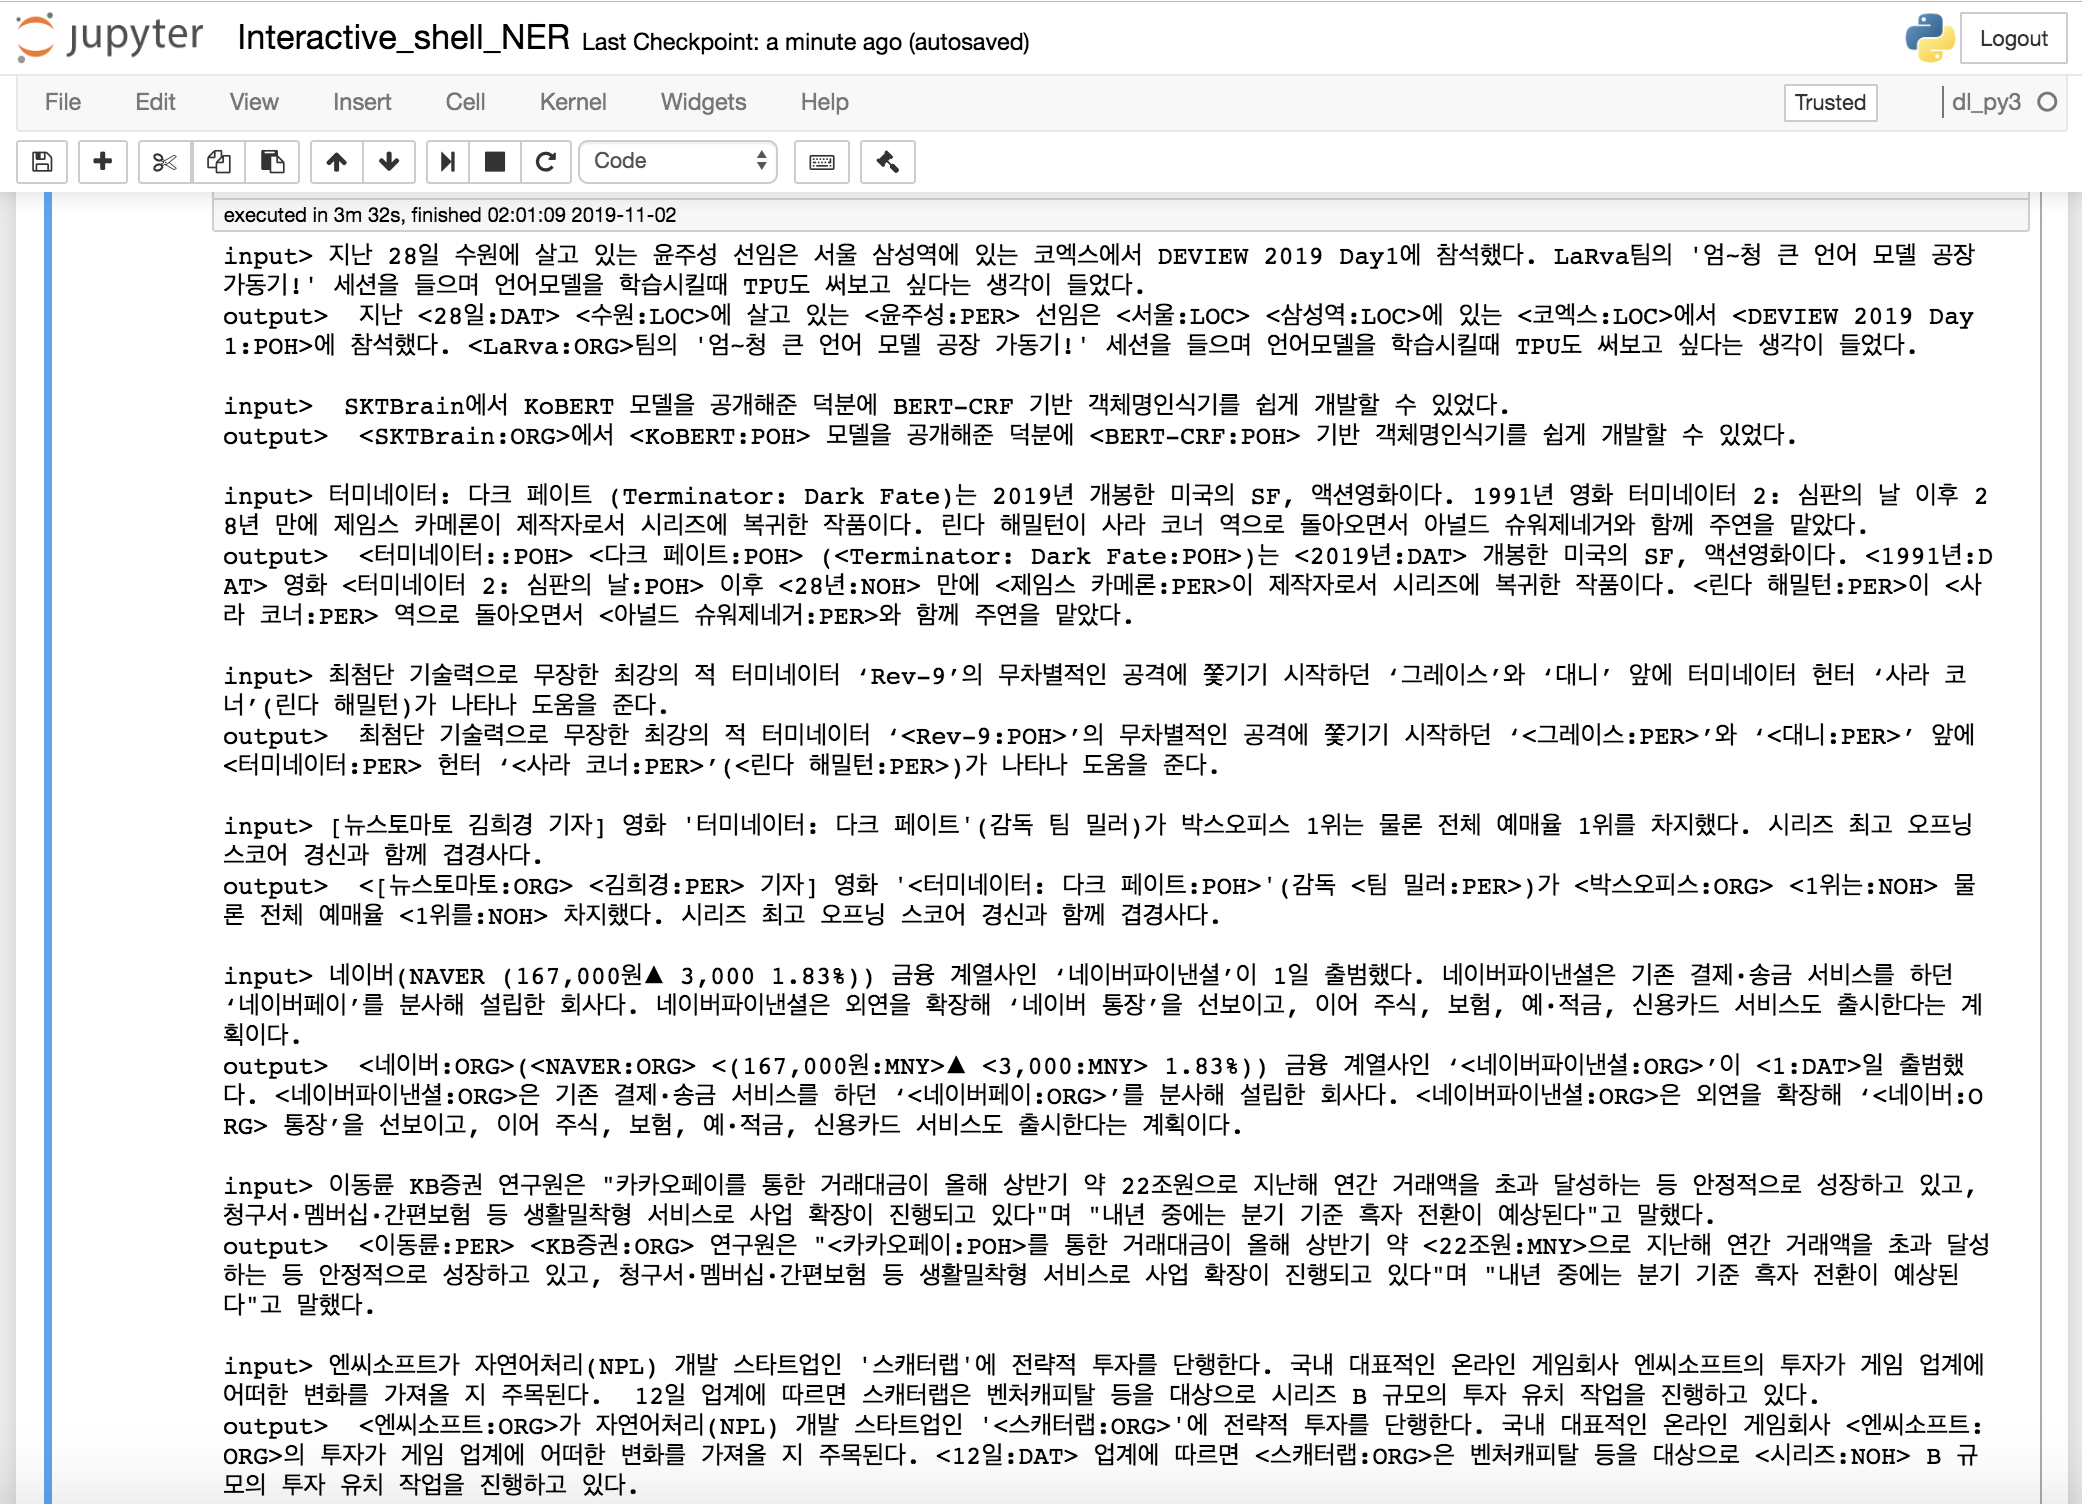
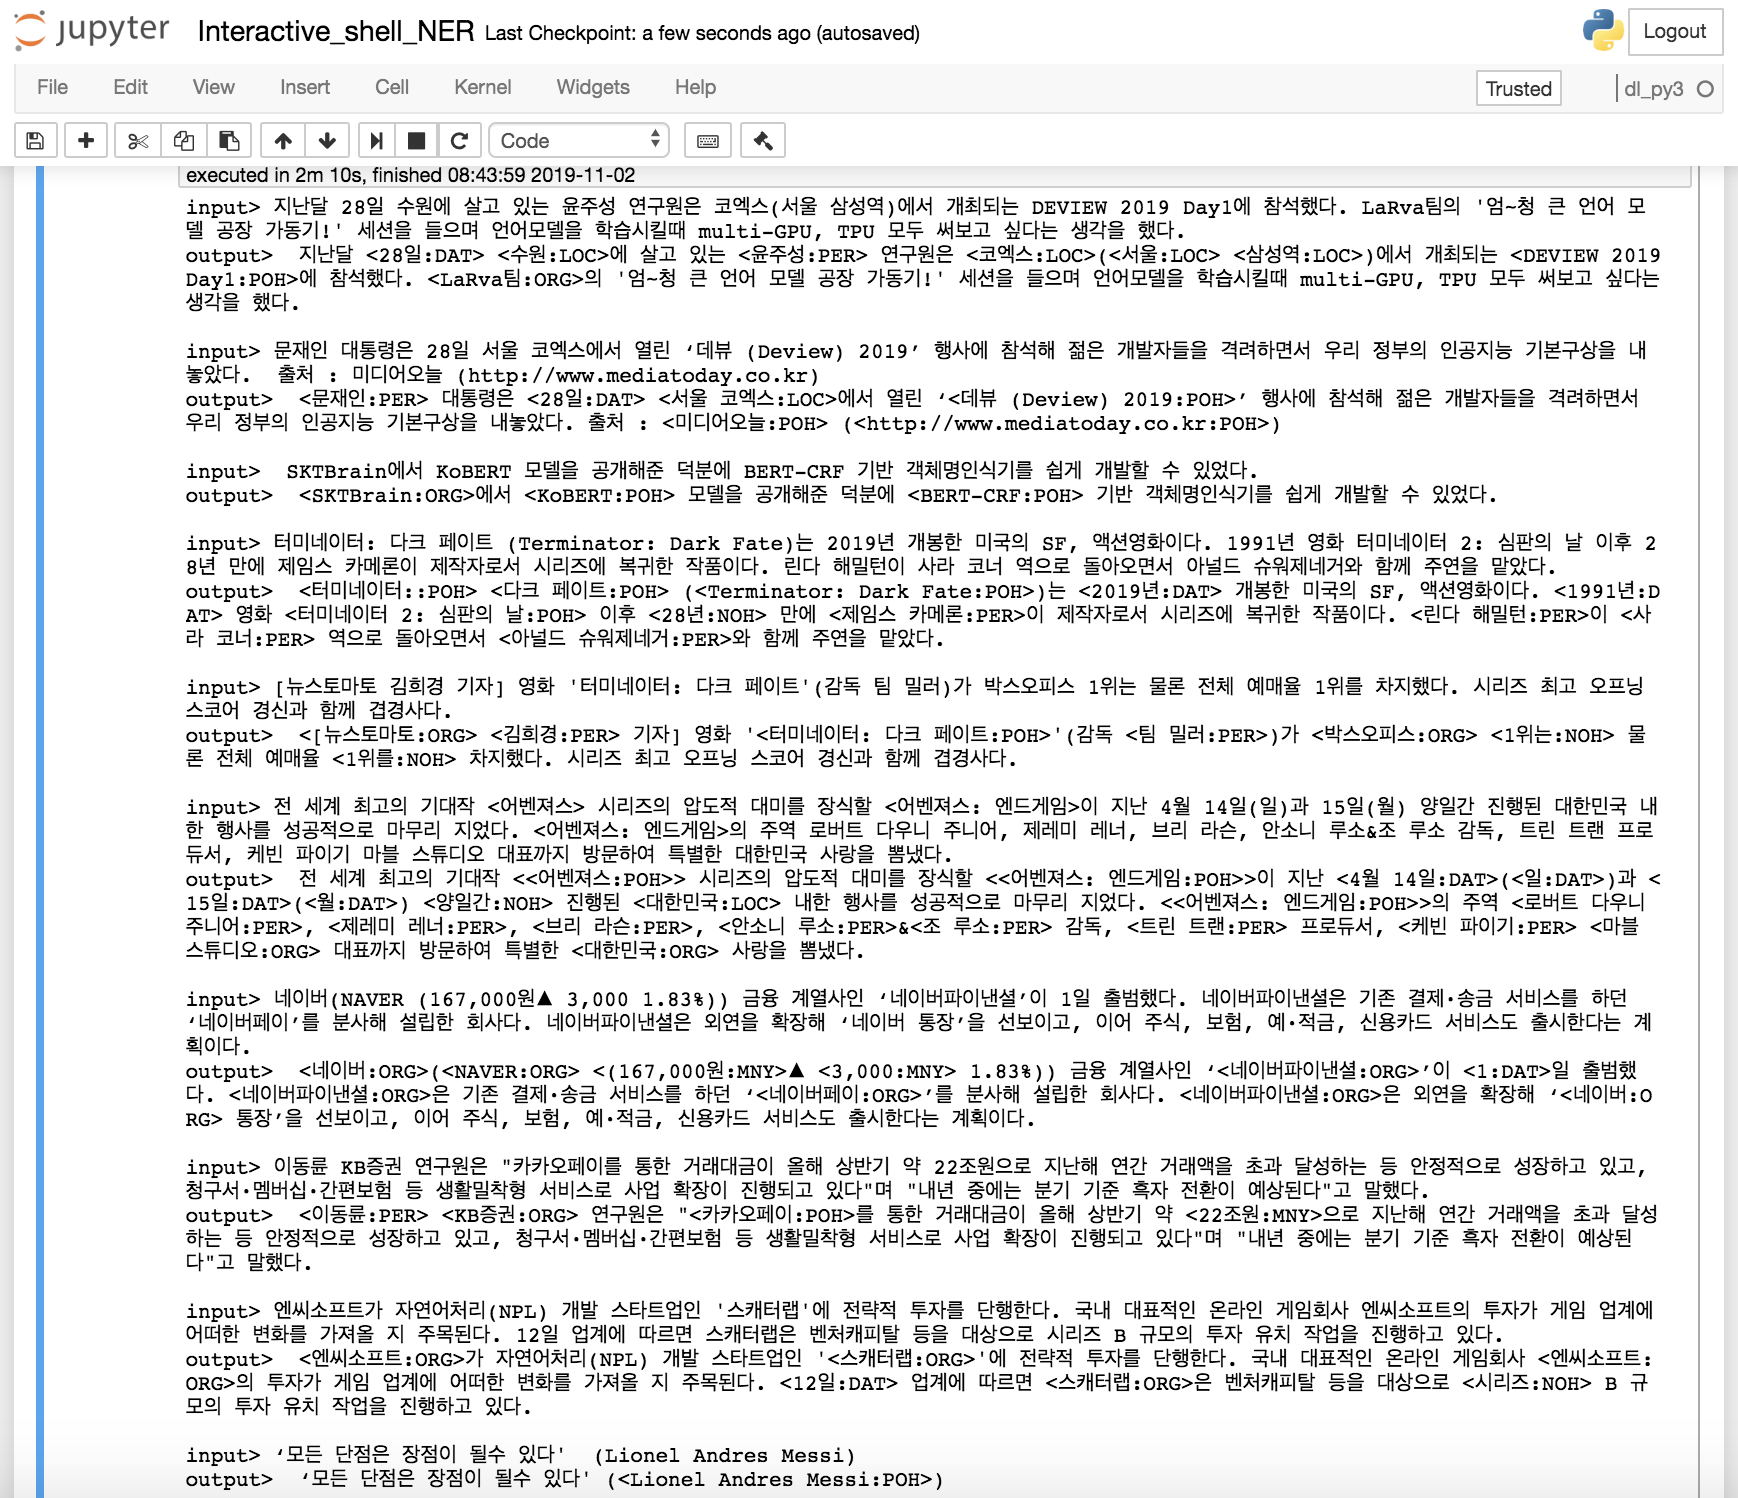
change examples, class_name

Changed region(s): [[0.0, 0.0, 0.9942, 1.0], [0.8389, 0.0, 0.9942, 0.0921], [0.9942, 0.0921, 1.0, 0.1228]]

diff --git a/README.md b/README.md
@@ -1,6 +1,6 @@
 # Pytorch-BERT-CRF-NER
 
-A PyTorch implementation of Korean NER Tagger based on BERT + CRF ((PyTorch v1.2 / Python 3.x)  
+A PyTorch implementation of Korean NER Tagger based on BERT + CRF (PyTorch v1.2 / Python 3.x)  
 
 ![kobert_crf_fig](./assets/kobert_crf_fig.png)
 
@@ -10,27 +10,48 @@ A PyTorch implementation of Korean NER Tagger based on BERT + CRF ((PyTorch v1.2
 
 ### Logs
 ```
-문장을 입력하세요: 지난 28일 수원에 살고 있는 윤주성 선임은 서울 삼성역에 있는 코엑스에서 DEVIEW 2019 Day1에 참석했다. LaRva팀의 '엄~청 큰 언어 모델 공장 가동기!' 세션을 들으며 언어모델을 학습시킬때 TPU도 써보고 싶다는 생각이 들었다.
-len: 79, input_token:['[CLS]', '▁지난', '▁28', '일', '▁수원', '에', '▁살', '고', '▁있는', '▁윤', '주', '성', '▁선임', '은', '▁서울', '▁삼성', '역', '에', '▁있는', '▁코', '엑스', '에서', '▁D', 'E', 'V', 'I', 'E', 'W', '▁20', '19', '▁D', 'ay', '1', '에', '▁참석했다', '.', '▁L', 'a', 'R', 'v', 'a', '팀', '의', "▁'", '엄', '~', '청', '▁큰', '▁언', '어', '▁모델', '▁공장', '▁가동', '기', "!'", '▁세', '션', '을', '▁들', '으며', '▁언', '어', '모델', '을', '▁학습', '시킬', '때', '▁T', 'P', 'U', '도', '▁써', '보고', '▁싶다', '는', '▁생각이', '▁들었다', '.', '[SEP]']
-len: 79, pred_ner_tag:['[CLS]', 'O', 'B-DAT', 'I-DAT', 'B-LOC', 'O', 'O', 'O', 'O', 'B-PER', 'I-PER', 'I-PER', 'O', 'O', 'B-LOC', 'B-LOC', 'I-LOC', 'O', 'O', 'B-LOC', 'I-LOC', 'O', 'B-POH', 'I-POH', 'I-POH', 'I-POH', 'I-POH', 'I-POH', 'I-POH', 'I-POH', 'I-POH', 'I-POH', 'I-POH', 'O', 'O', 'O', 'B-ORG', 'I-ORG', 'I-ORG', 'I-ORG', 'I-ORG', 'O', 'O', 'O', 'O', 'O', 'O', 'O', 'O', 'O', 'O', 'O', 'O', 'O', 'O', 'O', 'O', 'O', 'O', 'O', 'O', 'O', 'O', 'O', 'O', 'O', 'O', 'O', 'O', 'O', 'O', 'O', 'O', 'O', 'O', 'O', 'O', 'O', '[SEP]']
-list_of_ner_word: [{'word': ' 28일', 'tag': 'DAT', 'prob': None}, {'word': ' 수원', 'tag': 'LOC', 'prob': None}, {'word': ' 윤주성', 'tag': 'PER', 'prob': None}, {'word': ' 삼성역', 'tag': 'LOC', 'prob': None}, {'word': ' 코엑스', 'tag': 'LOC', 'prob': None}, {'word': ' DEVIEW 2019 Day1', 'tag': 'POH', 'prob': None}, {'word': ' LaRva', 'tag': 'ORG', 'prob': None}]
-decoding_ner_sentence: [CLS] 지난 <28일:DAT> <수원:LOC>에 살고 있는 <윤주성:PER> 선임은 <서울:LOC> <삼성역:LOC>에 있는 <코엑스:LOC>에서 <DEVIEW 2019 Day1:POH>에 참석했다. <LaRva:ORG>팀의 '엄~청 큰 언어 모델 공장 가동기!' 세션을 들으며 언어모델을 학습시킬때 TPU도 써보고 싶다는 생각이 들었다.[SEP]
+문장을 입력하세요: 지난달 28일 수원에 살고 있는 윤주성 연구원은 코엑스(서울 삼성역)에서 개최되는 DEVIEW 2019 Day1에 참석했다. LaRva팀의 '엄~청 큰 언어 모델 공장 가동기!' 세션을 들으며 언어모델을 학습시킬때 multi-GPU, TPU 모두 써보고 싶다는 생각을 했다.
+len: 90, input_token:['[CLS]', '▁지난달', '▁28', '일', '▁수원', '에', '▁살', '고', '▁있는', '▁윤', '주', '성', '▁연구원은', '▁코', '엑스', '(', '서울', '▁삼성', '역', ')', '에서', '▁개최', '되는', '▁D', 'E', 'V', 'I', 'E', 'W', '▁20', '19', '▁D', 'ay', '1', '에', '▁참석했다', '.', '▁L', 'a', 'R', 'v', 'a', '팀', '의', "▁'", '엄', '~', '청', '▁큰', '▁언', '어', '▁모델', '▁공장', '▁가동', '기', "!'", '▁세', '션', '을', '▁들', '으며', '▁언', '어', '모델', '을', '▁학습', '시킬', '때', '▁', 'm', 'ul', 't', 'i', '-', 'G', 'P', 'U', ',', '▁T', 'P', 'U', '▁모두', '▁써', '보고', '▁싶다', '는', '▁생각을', '▁했다', '.', '[SEP]']
+len: 90, pred_ner_tag:['[CLS]', 'O', 'B-DAT', 'I-DAT', 'B-LOC', 'O', 'O', 'O', 'O', 'B-PER', 'I-PER', 'I-PER', 'O', 'B-LOC', 'I-LOC', 'O', 'B-LOC', 'B-LOC', 'I-LOC', 'O', 'O', 'O', 'O', 'B-POH', 'I-POH', 'I-POH', 'I-POH', 'I-POH', 'I-POH', 'I-POH', 'I-POH', 'I-POH', 'I-POH', 'I-POH', 'O', 'O', 'O', 'B-ORG', 'I-ORG', 'I-ORG', 'I-ORG', 'I-ORG', 'I-ORG', 'O', 'O', 'O', 'O', 'O', 'O', 'O', 'O', 'O', 'O', 'O', 'O', 'O', 'O', 'O', 'O', 'O', 'O', 'O', 'O', 'O', 'O', 'O', 'O', 'O', 'O', 'O', 'O', 'O', 'O', 'O', 'O', 'O', 'O', 'O', 'O', 'O', 'O', 'O', 'O', 'O', 'O', 'O', 'O', 'O', 'O', '[SEP]']
+decoding_ner_sentence: [CLS] 지난달 <28일:DAT> <수원:LOC>에 살고 있는 <윤주성:PER> 연구원은 <코엑스:LOC>(<서울:LOC> <삼성역:LOC>)에서 개최되는 <DEVIEW 2019 Day1:POH>에 참석했다. <LaRva팀:ORG>의 '엄~청 큰 언어 모델 공장 가동기!' 세션을 들으며 언어모델을 학습시킬때 multi-GPU, TPU 모두 써보고 싶다는 생각을 했다.[SEP]
+   
+문장을 입력하세요: 문재인 대통령은 28일 서울 코엑스에서 열린 ‘데뷰 (Deview) 2019’ 행사에 참석해 젊은 개발자들을 격려하면서 우리 정부의 인공지능 기본구상을 내놓았다.  출처 : 미디어오늘 (http://www.mediatoday.co.kr)
+len: 66, input_token:['[CLS]', '▁문재인', '▁대통령은', '▁28', '일', '▁서울', '▁코', '엑스', '에서', '▁열린', '▁‘', '데', '뷰', '▁(', 'D', 'e', 'v', 'i', 'e', 'w', ')', '▁20', '19', '’', '▁행사에', '▁참석해', '▁젊은', '▁개발', '자들', '을', '▁격려', '하면서', '▁우리', '▁정부의', '▁인', '공', '지', '능', '▁기본', '구', '상을', '▁내놓', '았다', '.', '▁출처', '▁:', '▁미디어', '오늘', '▁(', 'http', '://', 'www', '.', 'm', 'ed', 'i', 'at', 'o', 'd', 'ay', '.', 'co', '.', 'kr', ')', '[SEP]']
+len: 66, pred_ner_tag:['[CLS]', 'B-PER', 'O', 'B-DAT', 'I-DAT', 'B-LOC', 'I-LOC', 'I-LOC', 'O', 'O', 'O', 'B-POH', 'I-POH', 'I-POH', 'I-POH', 'I-POH', 'I-POH', 'I-POH', 'I-POH', 'I-POH', 'I-POH', 'I-POH', 'I-POH', 'O', 'O', 'O', 'O', 'O', 'O', 'O', 'O', 'O', 'O', 'O', 'O', 'O', 'O', 'O', 'O', 'O', 'O', 'O', 'O', 'O', 'O', 'O', 'B-POH', 'I-POH', 'O', 'B-POH', 'I-POH', 'I-POH', 'I-POH', 'I-POH', 'I-POH', 'I-POH', 'I-POH', 'I-POH', 'I-POH', 'I-POH', 'I-POH', 'I-POH', 'I-POH', 'I-POH', 'O', '[SEP]']
+decoding_ner_sentence: [CLS] <문재인:PER> 대통령은 <28일:DAT> <서울 코엑스:LOC>에서 열린 ‘<데뷰 (Deview) 2019:POH>’ 행사에 참석해 젊은 개발자들을 격려하면서 우리 정부의 인공지능 기본구상을 내놓았다. 출처 : <미디어오늘:POH> (<http://www.mediatoday.co.kr:POH>)[SEP]
    
 문장을 입력하세요:  SKTBrain에서 KoBERT 모델을 공개해준 덕분에 BERT-CRF 기반 객체명인식기를 쉽게 개발할 수 있었다.
 len: 40, input_token:['[CLS]', '▁SK', 'T', 'B', 'ra', 'in', '에서', '▁K', 'o', 'B', 'ER', 'T', '▁모델', '을', '▁공개', '해', '준', '▁덕분에', '▁B', 'ER', 'T', '-', 'C', 'R', 'F', '▁기반', '▁', '객', '체', '명', '인', '식', '기를', '▁쉽게', '▁개발', '할', '▁수', '▁있었다', '.', '[SEP]']
 len: 40, pred_ner_tag:['[CLS]', 'B-ORG', 'I-ORG', 'I-ORG', 'I-ORG', 'I-ORG', 'O', 'B-POH', 'I-POH', 'I-POH', 'I-POH', 'I-POH', 'O', 'O', 'O', 'O', 'O', 'O', 'B-POH', 'I-POH', 'I-POH', 'I-POH', 'I-POH', 'I-POH', 'I-POH', 'O', 'O', 'O', 'O', 'O', 'O', 'O', 'O', 'O', 'O', 'O', 'O', 'O', 'O', '[SEP]']
-list_of_ner_word: [{'word': ' SKTBrain', 'tag': 'ORG', 'prob': None}, {'word': ' KoBERT', 'tag': 'POH', 'prob': None}, {'word': ' BERT-CRF', 'tag': 'POH', 'prob': None}]
 decoding_ner_sentence: [CLS] <SKTBrain:ORG>에서 <KoBERT:POH> 모델을 공개해준 덕분에 <BERT-CRF:POH> 기반 객체명인식기를 쉽게 개발할 수 있었다.[SEP]
+   
+문장을 입력하세요: 터미네이터: 다크 페이트 (Terminator: Dark Fate)는 2019년 개봉한 미국의 SF, 액션영화이다. 1991년 영화 터미네이터 2: 심판의 날 이후 28년 만에 제임스 카메론이 제작자로서 시리즈에 복귀한 작품이다. 린다 해밀턴이 사라 코너 역으로 돌아오면서 아널드 슈워제네거와 함께 주연을 맡았다.
+len: 102, input_token:['[CLS]', '▁터', '미', '네', '이', '터', ':', '▁다', '크', '▁페', '이', '트', '▁(', 'T', 'er', 'm', 'in', 'at', 'or', ':', '▁D', 'ar', 'k', '▁F', 'at', 'e', ')', '는', '▁20', '19', '년', '▁개봉', '한', '▁미국의', '▁S', 'F', ',', '▁액션', '영화', '이다', '.', '▁19', '91', '년', '▁영화', '▁터', '미', '네', '이', '터', '▁2', ':', '▁심판', '의', '▁날', '▁이후', '▁28', '년', '▁만에', '▁제임스', '▁카', '메', '론', '이', '▁제작', '자', '로서', '▁시리즈', '에', '▁복귀', '한', '▁작품', '이다', '.', '▁', '린다', '▁해', '밀', '턴', '이', '▁사', '라', '▁코너', '▁역', '으로', '▁돌아오', '면서', '▁아', '널', '드', '▁슈', '워', '제', '네', '거', '와', '▁함께', '▁주연', '을', '▁맡았다', '.', '[SEP]']
+len: 102, pred_ner_tag:['[CLS]', 'B-POH', 'I-POH', 'I-POH', 'I-POH', 'I-POH', 'I-POH', 'B-POH', 'I-POH', 'I-POH', 'I-POH', 'I-POH', 'O', 'B-POH', 'I-POH', 'I-POH', 'I-POH', 'I-POH', 'I-POH', 'I-POH', 'I-POH', 'I-POH', 'I-POH', 'I-POH', 'I-POH', 'I-POH', 'O', 'O', 'B-DAT', 'I-DAT', 'I-DAT', 'O', 'O', 'O', 'O', 'O', 'O', 'O', 'O', 'O', 'O', 'B-DAT', 'I-DAT', 'I-DAT', 'O', 'B-POH', 'I-POH', 'I-POH', 'I-POH', 'I-POH', 'I-POH', 'I-POH', 'I-POH', 'I-POH', 'I-POH', 'O', 'B-NOH', 'I-DUR', 'O', 'B-PER', 'I-PER', 'I-PER', 'I-PER', 'O', 'O', 'O', 'O', 'O', 'O', 'O', 'O', 'O', 'O', 'O', 'B-PER', 'I-PER', 'I-PER', 'I-PER', 'I-PER', 'O', 'B-PER', 'I-PER', 'I-PER', 'O', 'O', 'O', 'O', 'B-PER', 'I-PER', 'I-PER', 'I-PER', 'I-PER', 'I-PER', 'I-PER', 'I-PER', 'O', 'O', 'O', 'O', 'O', 'O', '[SEP]']
+decoding_ner_sentence: [CLS] <터미네이터::POH> <다크 페이트:POH> (<Terminator: Dark Fate:POH>)는 <2019년:DAT> 개봉한 미국의 SF, 액션영화이다. <1991년:DAT> 영화 <터미네이터 2: 심판의 날:POH> 이후 <28년:NOH> 만에 <제임스 카메론:PER>이 제작자로서 시리즈에 복귀한 작품이다. <린다 해밀턴:PER>이 <사라 코너:PER> 역으로 돌아오면서 <아널드 슈워제네거:PER>와 함께 주연을 맡았다.[SEP]
+   
+문장을 입력하세요: 전 세계 최고의 기대작 <어벤져스> 시리즈의 압도적 대미를 장식할 <어벤져스: 엔드게임>이 지난 4월 14일(일)과 15일(월) 양일간 진행된 대한민국 내한 행사를 성공적으로 마무리 지었다. <어벤져스: 엔드게임>의 주역 로버트 다우니 주니어, 제레미 레너, 브리 라슨, 안소니 루소&조 루소 감독, 트린 트랜 프로듀서, 케빈 파이기 마블 스튜디오 대표까지 방문하여 특별한 대한민국 사랑을 뽐냈다.
+len: 134, input_token:['[CLS]', '▁전', '▁세계', '▁최고의', '▁기대', '작', '▁<', '어', '벤', '져', '스', '>', '▁시리즈', '의', '▁압도적', '▁대', '미', '를', '▁장', '식', '할', '▁<', '어', '벤', '져', '스', ':', '▁엔', '드', '게임', '>', '이', '▁지난', '▁4', '월', '▁14', '일', '(', '일', ')', '과', '▁15', '일', '(', '월', ')', '▁양', '일간', '▁진행된', '▁대한민국', '▁내', '한', '▁행사를', '▁성공', '적으로', '▁마무리', '▁지', '었다', '.', '▁<', '어', '벤', '져', '스', ':', '▁엔', '드', '게임', '>', '의', '▁주', '역', '▁', '로', '버', '트', '▁다', '우', '니', '▁주', '니', '어', ',', '▁제', '레', '미', '▁레', '너', ',', '▁', '브리', '▁라', '슨', ',', '▁안', '소', '니', '▁루', '소', '&', '조', '▁루', '소', '▁감독', ',', '▁트', '린', '▁트', '랜', '▁프로', '듀', '서', ',', '▁케', '빈', '▁파', '이', '기', '▁마', '블', '▁스', '튜', '디', '오', '▁대표', '까지', '▁방문', '하여', '▁특별한', '▁대한민국', '▁사랑을', '▁뽐냈다', '.', '[SEP]']
+len: 134, pred_ner_tag:['[CLS]', 'O', 'O', 'O', 'O', 'O', 'O', 'B-POH', 'I-POH', 'I-POH', 'I-POH', 'O', 'O', 'O', 'O', 'O', 'O', 'O', 'O', 'O', 'O', 'O', 'B-POH', 'I-POH', 'I-POH', 'I-POH', 'I-POH', 'I-POH', 'I-POH', 'I-POH', 'O', 'O', 'O', 'B-DAT', 'I-DAT', 'I-DAT', 'I-DAT', 'O', 'B-DAT', 'O', 'O', 'B-DAT', 'I-DAT', 'O', 'B-DAT', 'O', 'B-NOH', 'I-NOH', 'O', 'B-LOC', 'O', 'O', 'O', 'O', 'O', 'O', 'O', 'O', 'O', 'O', 'B-POH', 'I-POH', 'I-POH', 'I-POH', 'I-POH', 'I-POH', 'I-POH', 'I-POH', 'O', 'O', 'O', 'O', 'B-PER', 'I-PER', 'I-PER', 'I-PER', 'I-PER', 'I-PER', 'I-PER', 'I-PER', 'I-PER', 'I-PER', 'O', 'B-PER', 'I-PER', 'I-PER', 'I-PER', 'I-PER', 'O', 'B-PER', 'I-PER', 'I-PER', 'I-PER', 'O', 'B-PER', 'I-PER', 'I-PER', 'I-PER', 'I-PER', 'O', 'B-PER', 'I-PER', 'I-PER', 'O', 'O', 'B-PER', 'I-PER', 'I-PER', 'I-PER', 'O', 'O', 'O', 'O', 'B-PER', 'I-PER', 'I-PER', 'I-PER', 'I-PER', 'B-ORG', 'I-ORG', 'I-ORG', 'I-ORG', 'I-ORG', 'I-ORG', 'O', 'O', 'O', '[SEP]', 'O', 'B-ORG', 'O', 'O', 'O', '[SEP]']
+decoding_ner_sentence: [CLS] 전 세계 최고의 기대작 <<어벤져스:POH>> 시리즈의 압도적 대미를 장식할 <<어벤져스: 엔드게임:POH>>이 지난 <4월 14일:DAT>(<일:DAT>)과 <15일:DAT>(<월:DAT>) <양일간:NOH> 진행된 <대한민국:LOC> 내한 행사를 성공적으로 마무리 지었다. <<어벤져스: 엔드게임:POH>>의 주역 <로버트 다우니 주니어:PER>, <제레미 레너:PER>, <브리 라슨:PER>, <안소니 루소:PER>&<조 루소:PER> 감독, <트린 트랜:PER> 프로듀서, <케빈 파이기:PER> <마블 스튜디오:ORG> 대표까지 방문하여 특별한 <대한민국:ORG> 사랑을 뽐냈다.[SEP]
+   
+문장을 입력하세요: ‘모든 단점은 장점이 될수 있다'  (Lionel Andres Messi)
+len: 29, input_token:['[CLS]', '▁‘', '모', '든', '▁단', '점', '은', '▁장점', '이', '▁될', '수', '▁있다', "'", '▁(', 'L', 'i', 'on', 'el', '▁A', 'n', 'd', 're', 's', '▁M', 'es', 's', 'i', ')', '[SEP]']
+len: 29, pred_ner_tag:['[CLS]', 'O', 'O', 'O', 'O', 'O', 'O', 'O', 'O', 'O', 'O', 'O', 'O', 'O', 'B-POH', 'I-POH', 'I-PER', 'I-POH', 'I-POH', 'I-POH', 'I-PER', 'I-PER', 'I-PER', 'I-PER', 'I-PER', 'I-PER', 'I-PER', 'O', '[SEP]']
+decoding_ner_sentence: [CLS] ‘모든 단점은 장점이 될수 있다' (<Lionel Andres Messi:POH>)[SEP]
 ```
 
 ### Note
-- 엔티티를 토큰화할때 길이가 엔티티 자체보다 길어지는 경우, 정확한 엔티티 추출이 안될 수 있음 (토크나이저의 한계)
+- 엔티티를 토큰화할때 토큰의 길이가 엔티티 자체보다 길어지는 경우, 정확한 엔티티 추출이 안될 수 있음 (토크나이저의 한계)
   - 이러한 경우에 대해서는 제외하고 학습할 수도 있지만, 더 넓은 범위를 커버하기 위해 포함하는 것으로 결정
   - e.g.)  첫 회를 시작으로 <13일:DAT>까지 -> ('▁13', 'B-DAT') ('일까지', 'I-DAT') (조사등이 같이 추출됨)
 - 반대로 토큰화한 길이가 엔티티 자체보다 작은 경우 'I-tag' 토큰으로 해결가능
 - pretrained sentencepiece를 사용하기 때문에 사전 변경은 안됨 (이것과 별개로 sp 사전을 변경 하는 방법은 따로 찾아봐야함) 
 - pytorch-crf 라이브러리가 multi-gpu에서 안됨
   - 추후 변경
+- BERT가 LM기반이라 그런지 오타에도 어느정도 강건한 편인듯함
+- 문장 길이에 따라 NER 결과가 달라짐
+- 영어 데이터에 대해서는 학습이 안되서 잘 안됨
 
 ### Dataset
 - [NER Dataset from 한국해양대학교 자연언어처리 연구실](https://github.com/kmounlp/NER)
